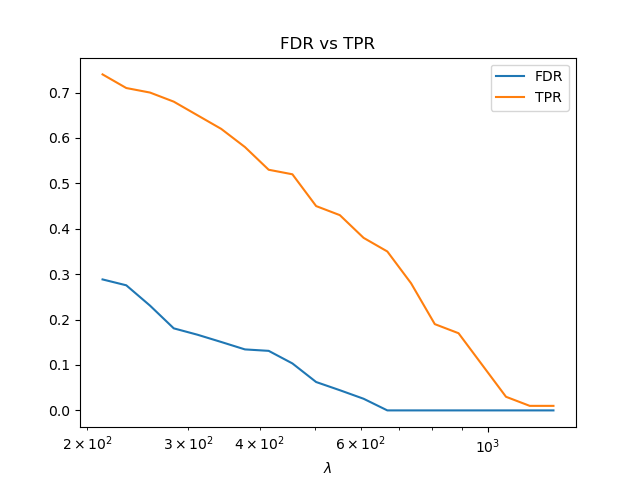
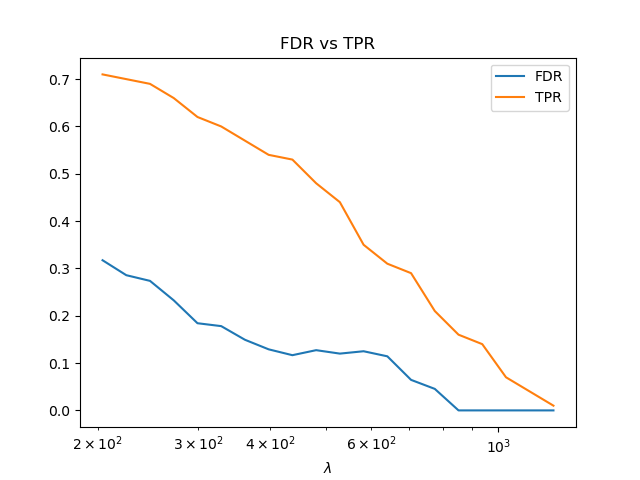
Important Bug Fixed

diff --git a/HW2/hwcode/lasso.py b/HW2/hwcode/lasso.py
@@ -66,30 +66,28 @@ class LassoRegression:
         assert X.shape[0] == y.shape[0], \
             "The number of rows of X must equal to the number elements in y. "
         MaxItr = 10000
-        n, d = X.shape[0], X.shape[1]
-        y2d = y[:, np.newaxis]
-        deltaW = this.Delta*ones((n, 1))*1.1
-        # !!! Use previous for optimization if model is asked to optimize for a second time.
-        w = zeros((d, 1)) if this._w is None else this._w
-        l = this.Lambda
+        n, d   = X.shape[0], X.shape[1]
+        y2d    = y[:, np.newaxis]
+        deltaW = this.Delta*ones((d, 1))*1.1                   # Amount of changes for each predictor while iterating
+        w      = zeros((d, 1)) if this._w is None else this._w # !!! Use previous for optimization if model is
+                                                               # asked to optimize for a second time.
+        l = this.Lambda                                        # Regularizer
         Itr = 0
         while norm(deltaW, inf) > this.Delta and Itr < MaxItr:
             Itr += 1
-            # compute offset vector.
-            b = mean(y2d - X@w)
-            # Compuate all the k at once, because it's not related to w_k
-            a = 2*sum(X**2, axis=0)
+            b    = mean(y2d - X@w)     # compute offset vector.
+            a    = 2*sum(X**2, axis=0) # Compuate all the k at once, because it's not related to w_k
             for k in range(d):
-                a_k = a[k]
+                a_k     = a[k]
                 Indices = [J for J in range(d) if J != k]
-                c_k = 2*sum(
-                    X[::, [k]]
-                    *
-                    (y2d - (b + X[:, Indices]@w[Indices]))
-                )
-                w_k = 0 if (abs(c_k) < l) else (c_k - sign(c_k)*l)/a_k
-                deltaW = abs(w_k - w[k])
-                w[k] = w_k
+                c_k     = 2*sum(
+                                X[::, [k]]
+                                *
+                                (y2d - (b + X[:, Indices]@w[Indices]))
+                            )
+                w_k       = 0 if (abs(c_k) < l) else (c_k - sign(c_k)*l)/a_k
+                deltaW[k, ...] = abs(w_k - w[k, ...])
+                w[k]      = w_k
                 this._print(f"optimizing on w_{k}, get w_{k} = {w[k]}")
         if MaxItr == Itr: raise Exception("Coordinate descent Max Itr reached without converging")
         this._weights = w

diff --git a/HW2/hwcode/crime_data_lasso.py b/HW2/hwcode/crime_data_lasso.py
@@ -5,6 +5,7 @@
 
 from lasso import LassoRegression, np, LassoLambdaMax
 import pandas as pd
+import matplotlib.pyplot as plt
 
 
 def PrepareData():
@@ -28,7 +29,6 @@ def PrepareData():
 def A5PlotsAndShow():
     print("summary on the data: ")
     Xtrain, Xtest, Ytrain, Ytest = PrepareData()
-
     LambdaMax = LassoLambdaMax(Xtrain, Ytrain)
     Lambda = LambdaMax                  # Results
     Lambdas = []                        # Results
@@ -46,7 +46,10 @@ def A5PlotsAndShow():
         Lambdas.append(Lambda)
         Lambda /= 2
     NoneZerosCount = [sum(_ != 0) for _ in Ws]
-    
+    plt.plot(Lambdas, NoneZerosCount)
+    plt.xscale("log")
+    plt.savefig("A5a-plot.png")
+    plt.show()
 
 
 
